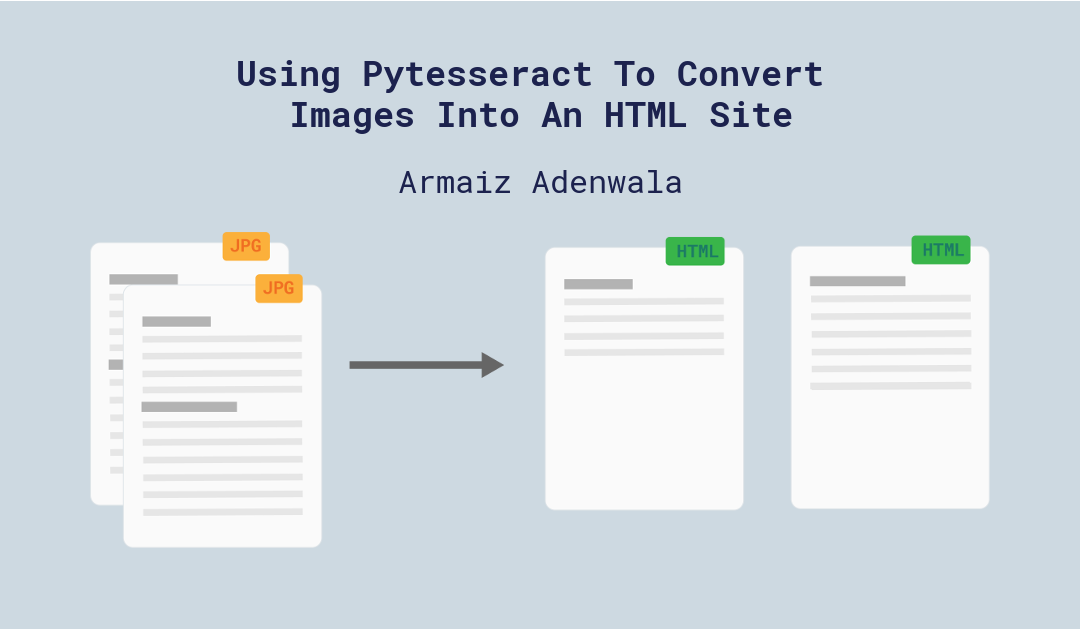
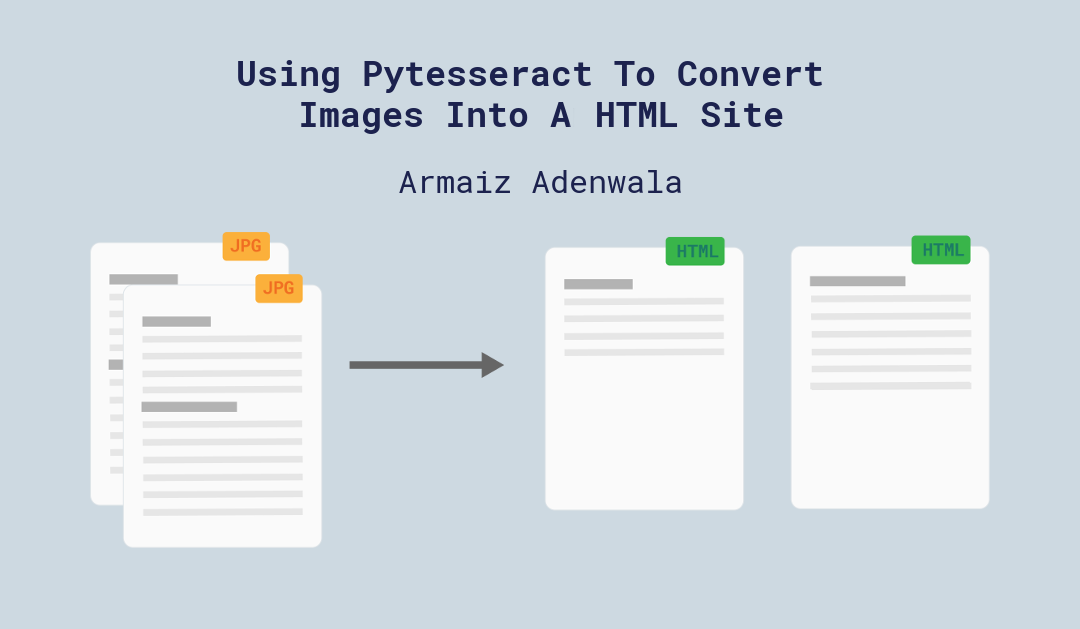
fix typo

Changed region(s): [[0.275, 0.151, 0.7333, 0.2114]]

diff --git a/src/pages/blog/pytesseract-images-to-html.js b/src/pages/blog/pytesseract-images-to-html.js
@@ -17,7 +17,7 @@ import NavImg from './images/ocr/custom-navigation-using-python.png';
 const IndexPage = () => (
   <div>
     <SEO
-      title="Using Pytesseract To Convert Images Into An HTML Site"
+      title="Using Pytesseract To Convert Images Into A HTML Site"
       canonical="https://armaizadenwala.com/blog/pytesseract-images-to-html/"
       secondaryTitle="Armaiz"
       image={CoverImage}
@@ -25,7 +25,7 @@ const IndexPage = () => (
     />
     <Navbar links={['Projects', 'Blog']} />
     <Hero
-      emphasized="Using Pytesseract To Convert Images Into An HTML Site"
+      emphasized="Using Pytesseract To Convert Images Into A HTML Site"
       description="Convert images to a string with Google Tesseract and then into a static HTML site using python"
       date="March 7th, 2020"
       extraContent
@@ -36,13 +36,13 @@ const IndexPage = () => (
           <LazyLoadImage
             className="cover-image"
             src={CoverImage}
-            alt="Using Pytesseract to convert images into an HTML site by Armaiz Adenwala."
+            alt="Using Pytesseract to convert images into a HTML site by Armaiz Adenwala."
           />
           <Title first>Overview</Title>
           <Paragraph>
             Using Google's Tesseract OCR library, we will scan images from a
-            dataset and create an HTML website out of it with navigation. We
-            will be covering an array of topics including the __Pytesseract__
+            dataset and create a HTML website out of it with navigation. We will
+            be covering an array of topics including the __Pytesseract__
             library, Google's __Tesseract__ library, __Makefiles__, __regex__,
             and more. This post is to serve as an introduction to the power of
             neural networks through basic OCR.
@@ -358,7 +358,7 @@ OCR Engine modes:
           </Paragraph>
           <Paragraph>
             `build_html_file`: converts a key and value pair from the
-            `build_chapters` method into an html page
+            `build_chapters` method into a html page
           </Paragraph>
           <Paragraph>
             `convert_chapter_to_spinal`: converts a chapter name into
@@ -858,7 +858,7 @@ utils.utils.InvalidChapterException
           </Paragraph>
           <Paragraph>
             {
-              "` return '{}.html'.format(chapter_spinal_case)`: returns the converted chapter string as an html file name. `Chapter 1: Lorem` becomes `lorem.html`."
+              "` return '{}.html'.format(chapter_spinal_case)`: returns the converted chapter string as a html file name. `Chapter 1: Lorem` becomes `lorem.html`."
             }
           </Paragraph>
           <Paragraph>
@@ -945,7 +945,7 @@ utils.utils.InvalidChapterException
           <Paragraph>
             `html_file.write(content)`: this appends our `content` to our html
             file. When we open our html file, this is what we will see. In our
-            actual method, we will have an html template.
+            actual method, we will have a html template.
           </Paragraph>
           <Paragraph>
             `html_file.close()`: this closes our html_file for writing, we want
@@ -1373,7 +1373,7 @@ content = """
           <LazyLoadImage
             className="full-width-img"
             src={NavImg}
-            alt="An HTML screen with a next and previous button to navigate through pages and chapters."
+            alt="A HTML screen with a next and previous button to navigate through pages and chapters."
           />
           <Title>Testing The Entire Dataset</Title>
           <Paragraph>

diff --git a/src/pages/blog/index.js b/src/pages/blog/index.js
@@ -27,7 +27,7 @@ const IndexPage = () => (
       <div className="p-v--32">
         <Container>
           <BlogCard
-            name="Using Pytesseract To Convert Images Into An HTML Site"
+            name="Using Pytesseract To Convert Images Into A HTML Site"
             description="Convert images to a string with Google Tesseract and then into a static HTML site using python"
             date="March 7th, 2020"
             url="/blog/pytesseract-images-to-html/"
